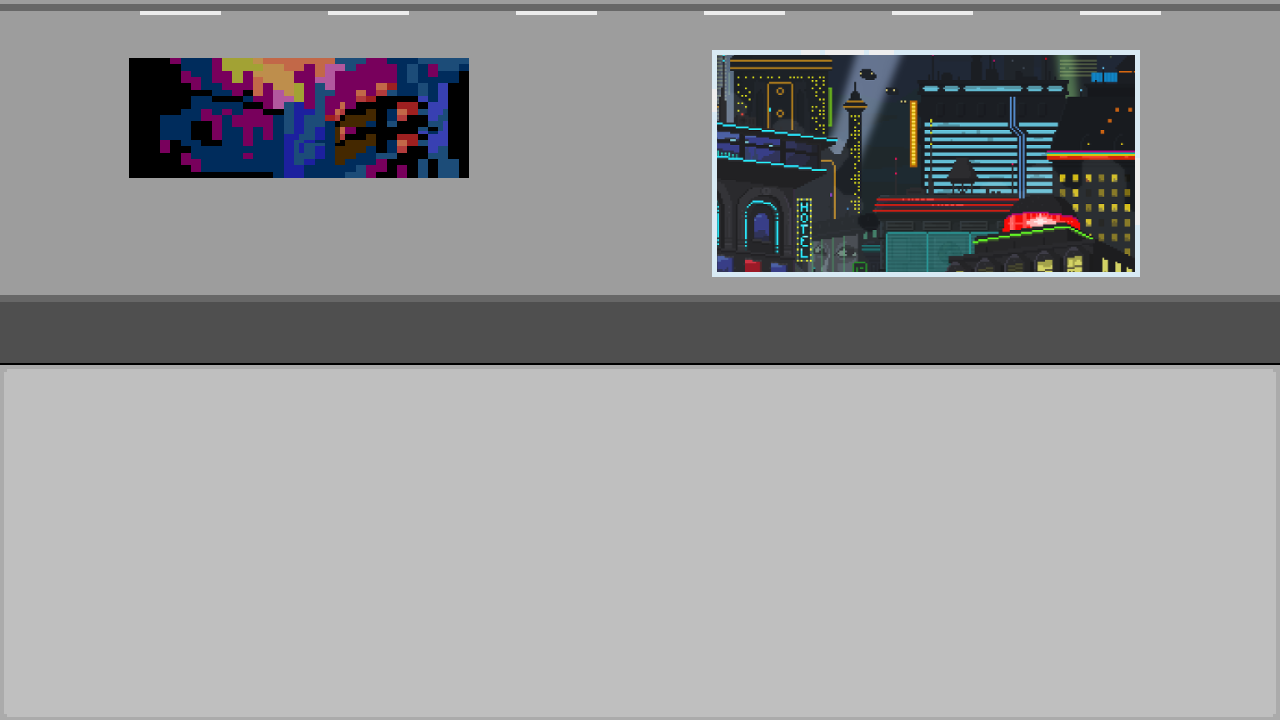
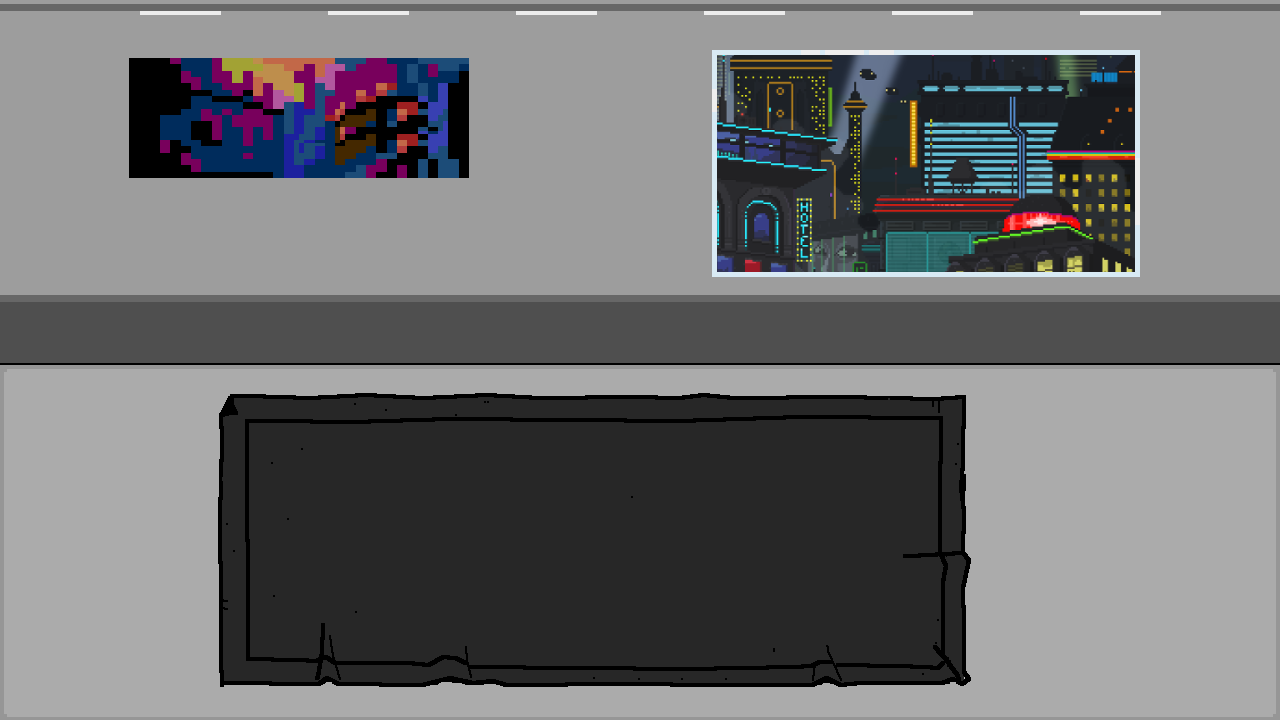
añadidas ultimas animaciones

Changed region(s): [[0.1562, 0.5194, 0.7812, 0.9778]]

diff --git a/ProyectosSDL/HolaSDL/Resources.cpp b/ProyectosSDL/HolaSDL/Resources.cpp
@@ -245,6 +245,12 @@ std::vector<std::string> Resources::imageFiles_{
 "..//images/Objetos/Colisionables/sofaCamello.png",
 "..//images/Objetos/cajafuerteAbierta.png",
 "..//images/Objetos/Colisionables/mesaCamello.png",
+"..//images/Objetos/cajaDeLucesAbierta.png",
+"..//images/Objetos/cursorMano.png",
+"..//images/Objetos/luzPolbots.png",
+"..//images/Objetos/neonDeportes.png",
+"..//images/Objetos/ventanaGalina.png",
+"..//images/Objetos/Puzles/casillaPuzzleCarta.png",
 };
 
 

diff --git a/ProyectosSDL/HolaSDL/Resources.h b/ProyectosSDL/HolaSDL/Resources.h
@@ -258,6 +258,12 @@ public:
 		SofaCamello,
 		BuzonCamelloAbierto,
 		MesaCamello,
+		LucesCamelloAbierta,
+		CursorMano,
+		LuzPolbots,
+		NeonSports,
+		VentanaGalina,
+		CasillaPuzleCarta,
 	};
 private:
 	static std::vector<std::string> imageFiles_; // initialized in .cpp
